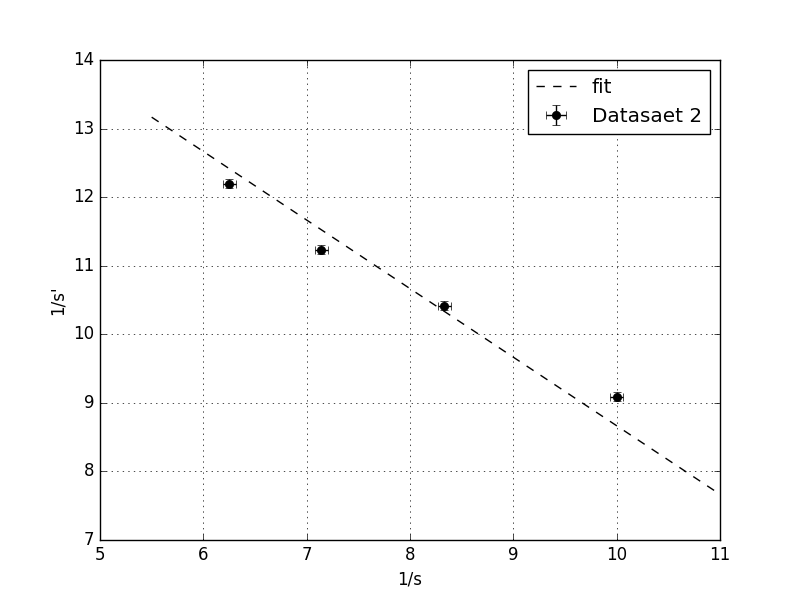
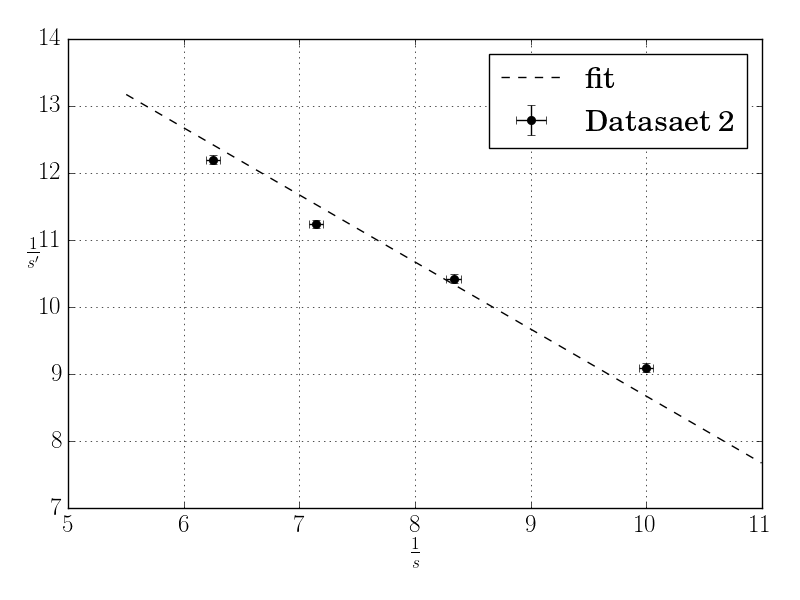
the

diff --git a/rapport2/hej.py b/rapport2/hej.py
@@ -3,6 +3,11 @@ import numpy as np
 import matplotlib.pyplot as plt
 from scipy import optimize as opt
 plt.rcParams['legend.numpoints']=1
+plt.rcParams.update({'font.size': 18})
+plt.rc('text',usetex=True)
+plt.rc('font',family='serif')
+
+
 
 #positioner paa ting
 I_0 = 15/100. #position for image 0
@@ -58,18 +63,16 @@ print(sds_f1,sds_f2)
 def focal(s,s_mark):
     return (s*s_mark)/(s+s_mark)
 focal_teo1 = focal(s1,s_mark1)
-<<<<<<< HEAD
+
 linspaced = np.linspace(30,55,100)-I_0
 
-
-=======
 #print(focal_teo1)
-<<<<<<< HEAD
+
 # %% - - - - - - - - p.l.o.t - - - - - - - -
-=======
->>>>>>> 78bfe63774006c023f51e10f95877c6fc46fe09a
+
+
 # %% - - - - - - - - plot - - - - - - - -
->>>>>>> 720bb997469a24fbb66b3ecede88502538a892df
+
 s_inv1 = 1/s1
 s_markinv1 = 1/s_mark1
 s_inv2 = 1/s2
@@ -80,20 +83,13 @@ plt.title('Maaledata')
 plt.errorbar(s1,s_mark1,xerr = pm_x, yerr = pm_x, fmt='bo', label="Datasaet 1")
 plt.errorbar(s2,s_mark2,xerr = pm_x, yerr = pm_x, fmt='ro', label="Datasaet 2")
 plt.legend()
+plt.grid()
 plt.xlabel("s")
-plt.ylabel("s'")
+plt.ylabel("s'",rotation=0)
+plt.tight_layout()
 plt.axis([0.08, 0.4, 0.05, 0.36])
 
-<<<<<<< HEAD
-# %% - - - - - - - - fit - - - - - - - - HEJ LAURITS
-def func_fit(s,f):
-    return (f*s)/(f-s)
-f_opt,f_cov = opt.curve_fit(func_fit,s_mark1,s1)
-xrange = np.linspace(0.1,0.35,1000)
-s_mark_fit = func_fit(xrange,f_opt)
 
-# %% - - - - - - - - PLot - - - - - - - -
-=======
 
 # %% - - - - - - - - fit - - - - - - - -
 def func_fit(s_inv,f):
@@ -105,30 +101,20 @@ print(f_opt1)
 print(f_opt2)
 range = np.linspace(2,7,1000.)
 s_mark_fit1 = func_fit(range,f_opt1)
-<<<<<<< HEAD
-=======
 s_mark_fit2 = func_fit(range,f_opt2)
-<<<<<<< HEAD
-#figur for datasæt 1
-<<<<<<< HEAD
->>>>>>> 78bfe63774006c023f51e10f95877c6fc46fe09a
-=======
-plt.figure()
-plt.plot(range,s_mark_fit1)
->>>>>>> e00bdedba267e93ca2c93329afea3069575381c6
-=======
-=======
->>>>>>> b74d326430a571ac378485cd6c96b640e46f67df
->>>>>>> 720bb997469a24fbb66b3ecede88502538a892df
+
+
 
 #figur for datasaet 1
->>>>>>> 0ad5f5e03ab46de02464062268eb928de843a214
+
 plt.figure()
 plt.plot(range,s_mark_fit1, '--k', label='fit')
 plt.errorbar(s_inv1,s_markinv1,xerr = sds_inv_s,yerr = sds_inv_s ,fmt='ok',label="Datasaet 1")
+plt.grid()
 plt.legend()
-plt.xlabel("1/s")
-plt.ylabel("1/s'")
+plt.xlabel(r"$\frac{1}{s}$")
+plt.ylabel(r"$\frac{1}{s'}$",rotation=0)
+plt.tight_layout()
 plt.savefig("1.png")
 #figur for datasaet 2
 range2 = np.linspace(5.5,11,1000)
@@ -139,10 +125,11 @@ plt.plot(range2,s_mark_fit2, '--k', label='fit')
 plt.errorbar(s_inv2,s_markinv2,xerr = sds_inv_s,yerr = sds_inv_s ,fmt='ok',label="Datasaet 2")
 plt.legend()
 plt.grid()
-plt.xlabel("1/s")
-plt.ylabel("1/s'")
+plt.xlabel(r"$\frac{1}{s}$")
+plt.ylabel(r"$\frac{1}{s'}",rotation=0)
+plt.tight_layout()
 plt.savefig("2.png")
-plt.show()
+
 
 #indenfor et 95% konfidensinterval saa ligger de to indenfor foelgende
 konf_int_f10 = [f_opt1 - sds_f1,f_opt1 + sds_f1]
@@ -154,4 +141,36 @@ print(konf_int_f10)
 print("f=5")
 print(f_opt2)
 print(konf_int_f5)
+
+
+#for at tjekke om forholdet (34.17) gaelder plottes y'/y (-s'/s)
+#haeldningen skulle gerne vaere 1
+linje = np.linspace(0,3,1000)
+teo_linje = linje
+xdata_y = s_mark1/s1
+ydata_y = y_r/y_0
+
+dfdx_x = 1/s1
+dfdy_x = s_mark1 * np.log(s1)
+sum01_x = np.sum(np.power(dfdx_x,2)*np.power(sds_x,2))
+sum02_x = np.sum(np.power(dfdx_x,2)*np.power(sds_x,2))
+sds_xdata = np.sqrt(sum01+sum02)
+
+dfdx_y = 1/y_0
+dfdy_y = y_r * np.log(y_0)
+sum01_y = np.sum(np.power(dfdx_y,2)*np.power(pm_y,2))
+sum02_y = np.sum(np.power(dfdx_y,2)*np.power(pm_y,2))
+sds_xdata = np.sqrt(sum01_y)
+sds_ydata = np.sqrt(sum02_y)
+
+plt.figure()
+plt.errorbar(xdata_y,ydata_y,xerr=sds_xdata,yerr=sds_ydata,fmt='ok')
+plt.plot(linje,teo_linje,'k',label='Teoretisk linje')
+plt.grid()
+plt.xlabel(r"$\frac{s'}{s}$")
+plt.ylabel(r"$\frac{y'}{y}$",rotation=0)
+plt.tight_layout()
+plt.legend(loc=2)
+plt.savefig("3.png")
+plt.show()
 
